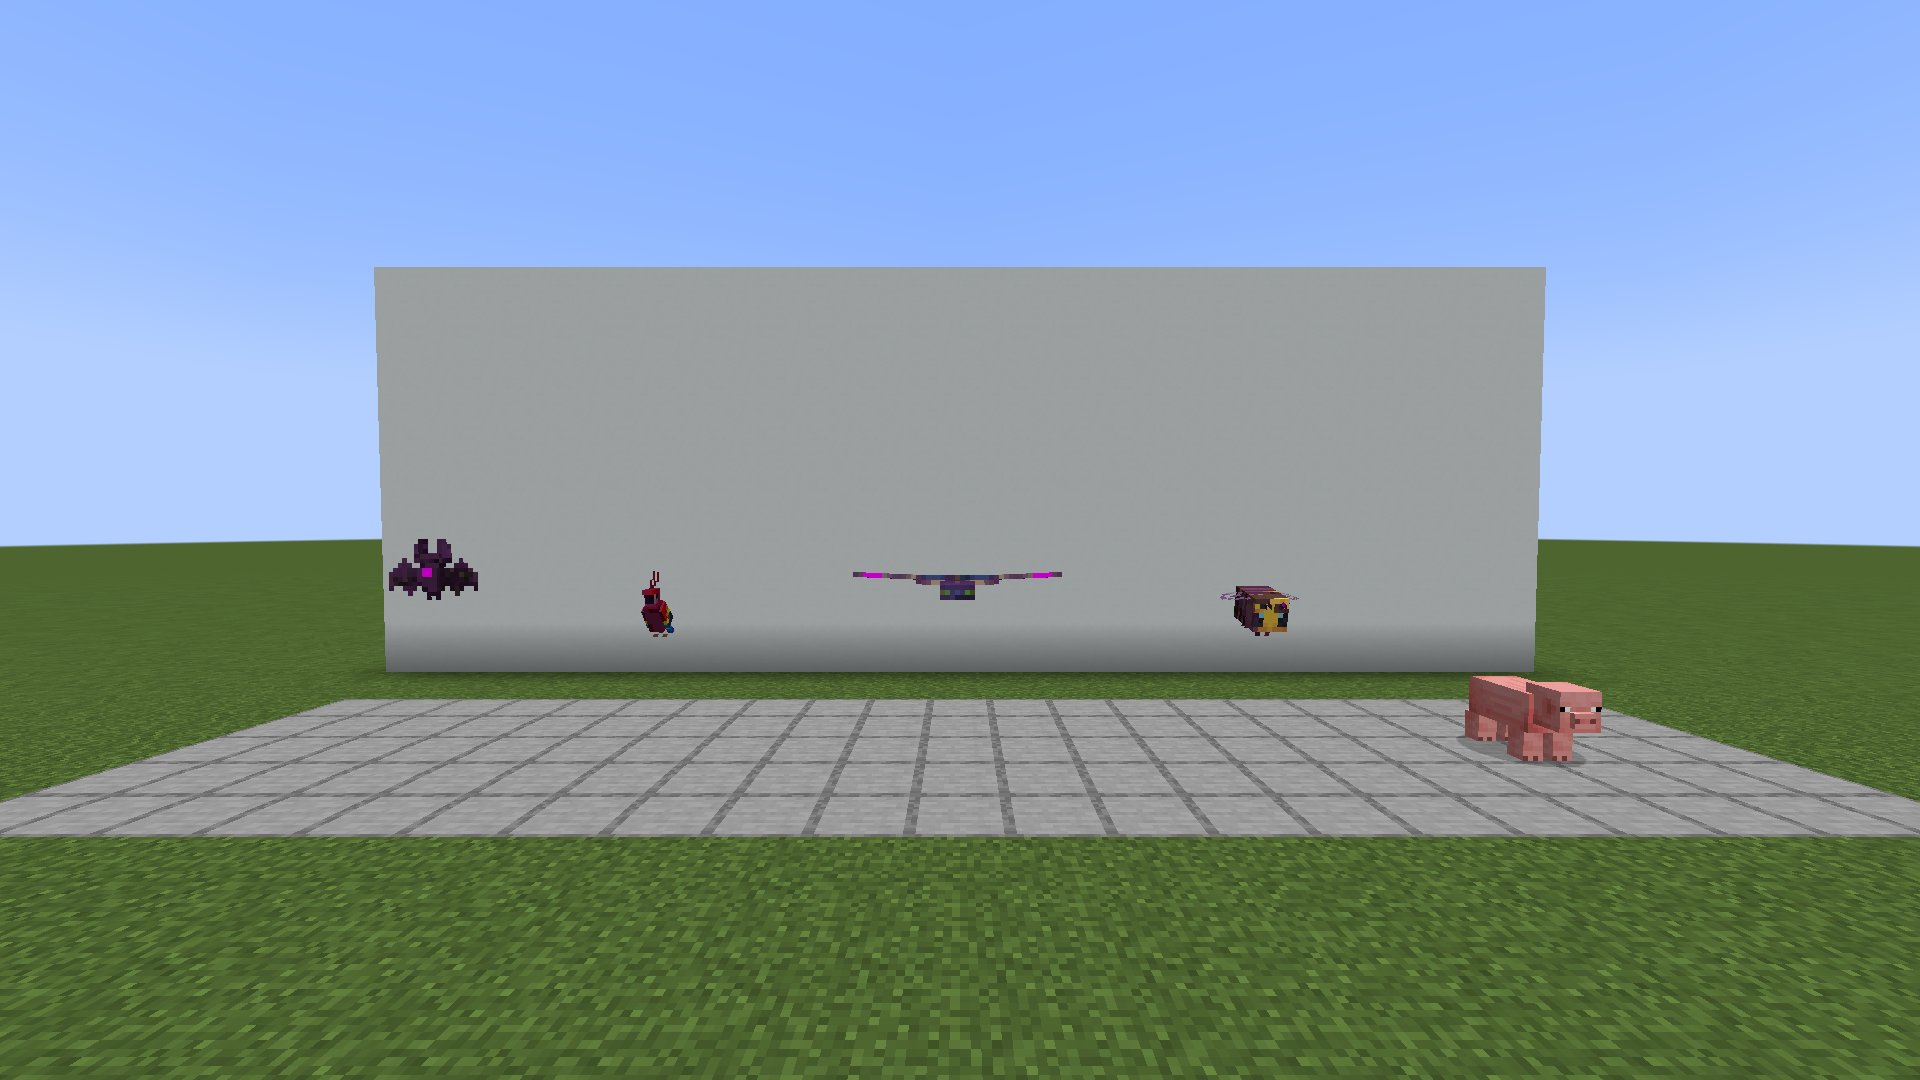
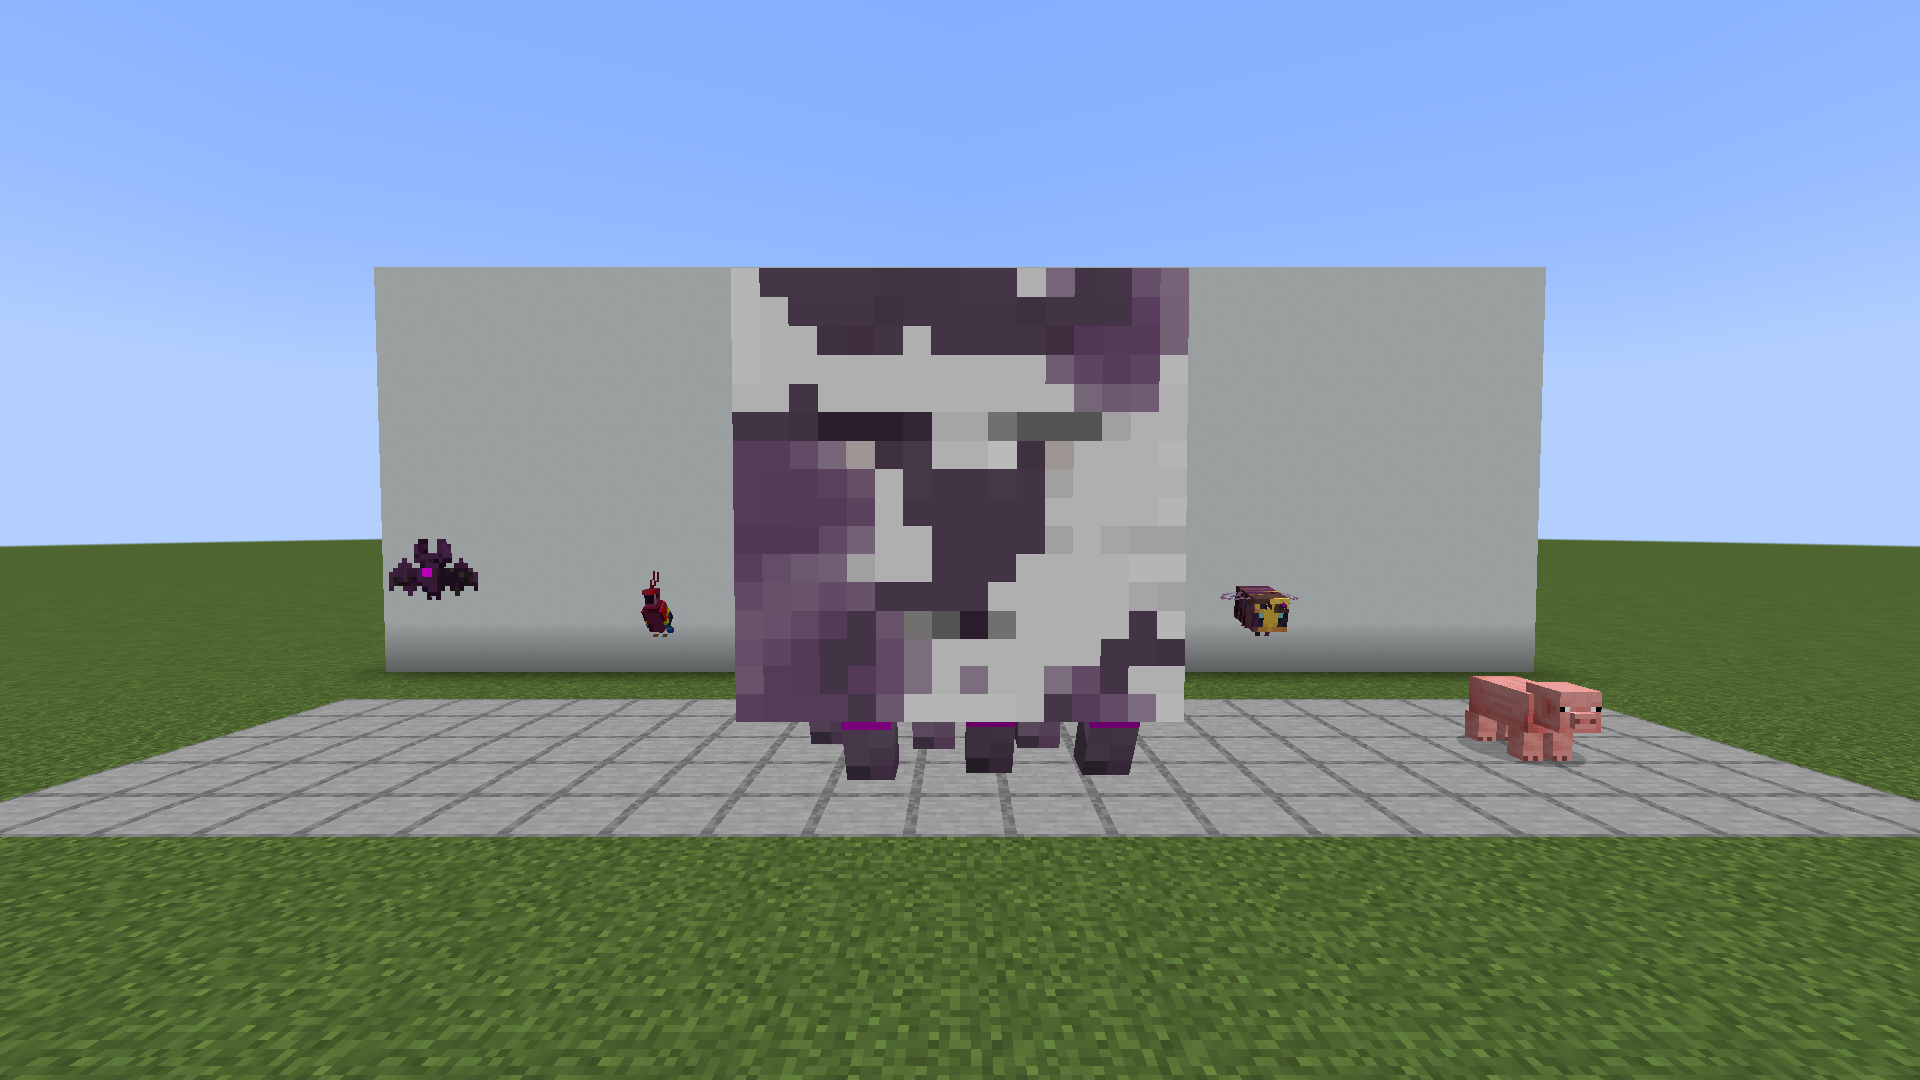
P3.2: Make the fallbacks scene reproducible

Changed region(s): [[0.375, 0.2444, 0.625, 0.7333]]

diff --git a/.agents/skills/visual-checks/SKILL.md b/.agents/skills/visual-checks/SKILL.md
@@ -8,7 +8,7 @@ description: Capture and review screenshots of hosts, festering blocks, effects 
 Visual evidence is only valid from a GPU run. The log must name the RTX 4070 (headless-client); llvmpipe output is never evidence. No live view (VNC) exists, so every review works from image files.
 
 **Sources:**
-- Harness scenes (preferred): `tools/run-client-headless.sh --scene <id>` builds the scene, saves fixed-name screenshots to `.local/runs/latest/screenshots/<shot>.png` and quits (headless-client). Current scenes: `smoke/mob_lineup` (shots `front`, `oblique`: vanilla lineup plus the Mekanism robit as a dev-runtime modded mob), `corruption/stages_vanilla` and `corruption/stages_modded` (host overlay stages, P2.2; below), `corruption/stages_layers` (overlay on armour, wool, slime gel, the drowned's outer layer, horse and wolf armour, P2.4; below), `research/scanner` (shots `items`: scanner, host scan and block scan in item frames; `in_hand`: an armour stand pointing the scanner at a stage 2 host cow; P6.1), `research/bestiary` (shots `hosts`: stage 1–3 hosts including the Mekanism robit, plus an unscanned host pig; `list`: the bestiary opened with its key, four scanned types first; P6.2), `behaviour/fallbacks` (shots `brain`, `flying`, `swimming`: stage 2 hosts of each fallback category in its habitat, brain and flying rows beside an uninfected pig; P3.2).
+- Harness scenes (preferred): `tools/run-client-headless.sh --scene <id>` builds the scene, saves fixed-name screenshots to `.local/runs/latest/screenshots/<shot>.png` and quits (headless-client). Current scenes: `smoke/mob_lineup` (shots `front`, `oblique`: vanilla lineup plus the Mekanism robit as a dev-runtime modded mob), `corruption/stages_vanilla` and `corruption/stages_modded` (host overlay stages, P2.2; below), `corruption/stages_layers` (overlay on armour, wool, slime gel, the drowned's outer layer, horse and wolf armour, P2.4; below), `research/scanner` (shots `items`: scanner, host scan and block scan in item frames; `in_hand`: an armour stand pointing the scanner at a stage 2 host cow; P6.1), `research/bestiary` (shots `hosts`: stage 1–3 hosts including the Mekanism robit, plus an unscanned host pig; `list`: the bestiary opened with its key, four scanned types first; P6.2), `behaviour/fallbacks` (shots `brain`, `flying`, `swimming`: stage 2 hosts of each fallback category: brain mobs on a floor and flyers in the air beside an uninfected pig, swimmers on a dry floor; P3.2).
 - `framebuffer.png` from a timeout run of `tools/run-client-headless.sh`: the last frame, good for "reaches title/world, no error screen".
 - In-game screenshots: F2 writes to `mod/run/client/screenshots/`. foundry has no input device, so these come only from a client run elsewhere with the same pack and scene.
 - `tools/collect-screenshots.sh [game-dir] [--clear]` copies PNGs (and the last framebuffer) into `.local/screenshots/<UTC>/`; review from `.local/screenshots/latest/`.
@@ -48,6 +48,7 @@ Visual evidence is only valid from a GPU run. The log must name the RTX 4070 (he
 - Fixed camera position and rotation via `/tp @s x y z yaw pitch`.
 - Mobs spawned with `NoAI:1` for static lineups.
 - 1920x1080. Default resource pack and video settings (record any change).
+- Nothing in frame may animate on wall-clock time or depend on entity ids, which `/tick freeze` does not pin: no visible water, lava or other animated block textures (their frame advances with client frames), and no mobs whose model animation is offset by entity id (phantom wings, `getUniqueFlapTickOffset`). Confirm a new scene with two consecutive runs that compare equal (P3.2 found both in `behaviour/fallbacks`).
 
 Name scenes `<area>/<subject>` as in ROADMAP (`corruption/stages_vanilla`, `world/stages`, `purification/pylon_radius`, `integration/create_fan_purify`).
 
@@ -60,7 +61,7 @@ Name scenes `<area>/<subject>` as in ROADMAP (`corruption/stages_vanilla`, `worl
 
 Always compare against the accepted reference for the same scene (below), and against vanilla for "does it still look like Minecraft".
 
-**References and comparison:** reviewed reference images are committed in `tools/visual-references/<scene>/<shot>.png`, one directory per harness scene, so local runs and the GPU workflow compare against the same set. Keep the set small: only scenes named in exit criteria or item acceptance (now `smoke/mob_lineup`, `corruption/stages_vanilla`, `corruption/stages_modded`, `corruption/stages_layers`, `research/scanner`, `research/bestiary` and `behaviour/fallbacks`, about 10 MB together), the harness's 1920x1080 PNGs unchanged (no re-encoding, so unchanged runs hit the byte-identical fast path), and replace files instead of adding variants. They are screenshots of the running game used as test fixtures, never shipped, and sit outside the provenance check's scan roots, so they take no CONTENT-PROVENANCE rows. Compare a run with:
+**References and comparison:** reviewed reference images are committed in `tools/visual-references/<scene>/<shot>.png`, one directory per harness scene, so local runs and the GPU workflow compare against the same set. Keep the set small: only scenes named in exit criteria or item acceptance (now `smoke/mob_lineup`, `corruption/stages_vanilla`, `corruption/stages_modded`, `corruption/stages_layers`, `research/scanner`, `research/bestiary` and `behaviour/fallbacks`, about 11 MB together), the harness's 1920x1080 PNGs unchanged (no re-encoding, so unchanged runs hit the byte-identical fast path), and replace files instead of adding variants. They are screenshots of the running game used as test fixtures, never shipped, and sit outside the provenance check's scan roots, so they take no CONTENT-PROVENANCE rows. Compare a run with:
 
 ```sh
 tools/compare-screenshots.sh --scene <id> --actual .local/runs/latest/screenshots --out .local/compare/<id>

diff --git a/docs/ARCHITECTURE.md b/docs/ARCHITECTURE.md
@@ -112,7 +112,7 @@ Internal Java system names and public API types may keep the generic word "corru
 - **Hosts never target hosts:** a `LivingChangeTargetEvent` listener clears any target a host would set on another host, for every host whatever its behaviour (brain `StartAttacking` included). Target goals re-set their target each tick they continue, so a target that becomes a host mid-fight is dropped on the next tick.
 - **Attributes:** `EntityAttributeModificationEvent` adds `attack_damage` (default 2) and `follow_range` (default 32) to every entity type with attributes that lacks them, so attack and target goals work on any mob. Profile attribute modifiers (`HostAttributes`, P3.3) are applied in `Corruption.set` before host goals.
 - **Tests:** `HostFallbackTests` (own batch `host_fallbacks`, `remission:host_arena`, flooded for swimmers): host bat and parrot hurt a pig; ghasts and phantoms get target goals but no pursuit goal; host cod, squid and dolphin hurt a salmon in water; a host cod on land ignores an adjacent pig; host piglin, hoglin and warden hurt a pig, a host axolotl hurts a dolphin and a host breeze hurts an iron golem; villagers, allays and frogs resolve to the default profile's `none` and get no host goals; a pack's priority 0 frog profile without `behaviour` replaces the default and the frog falls back to `melee`; cleansing a piglin removes its brain goal and attack target. `HostBehaviourTests` (own batch, `remission:host_arena`): host cow, zombie and Mekanism robit (dev runtime only; skipped without Mekanism) hurt an uninfected pig; a host sheep hurts a survival player; hosts ignore hosts (including retaliation and a forced `setTarget`); a target that becomes a host is dropped; cleanse restores goals in-session; reload re-applies host goals on join and a cleansed save loads normal; category defaults; every living type has the attributes.
-- **Harness scene** `behaviour/fallbacks` (shots `brain`, `flying`, `swimming`): stage 2 hosts of each category in its habitat (brain mobs on a floor and flyers in the air, each beside an uninfected pig; swimmers in an open-fronted water tank), so the overlay is checked on every fallback category. Ticks are frozen in harness scenes, so pursuit itself is covered by the gametests. Infection: below (P3.3).
+- **Harness scene** `behaviour/fallbacks` (shots `brain`, `flying`, `swimming`): stage 2 hosts of each category (brain mobs on a floor and flyers, a ghast standing in for flying monsters, in the air, each beside an uninfected pig; swimmers on a dry floor, because animated water textures and the phantom's id-offset wing flap are not pinned by the frozen tick and made shots differ between runs), so the overlay is checked on every fallback category. Ticks are frozen in harness scenes, so pursuit itself is covered by the gametests. Infection: below (P3.3).
 
 ### Infection, mob profiles and host loot (phase 3, built in P3.3)
 
